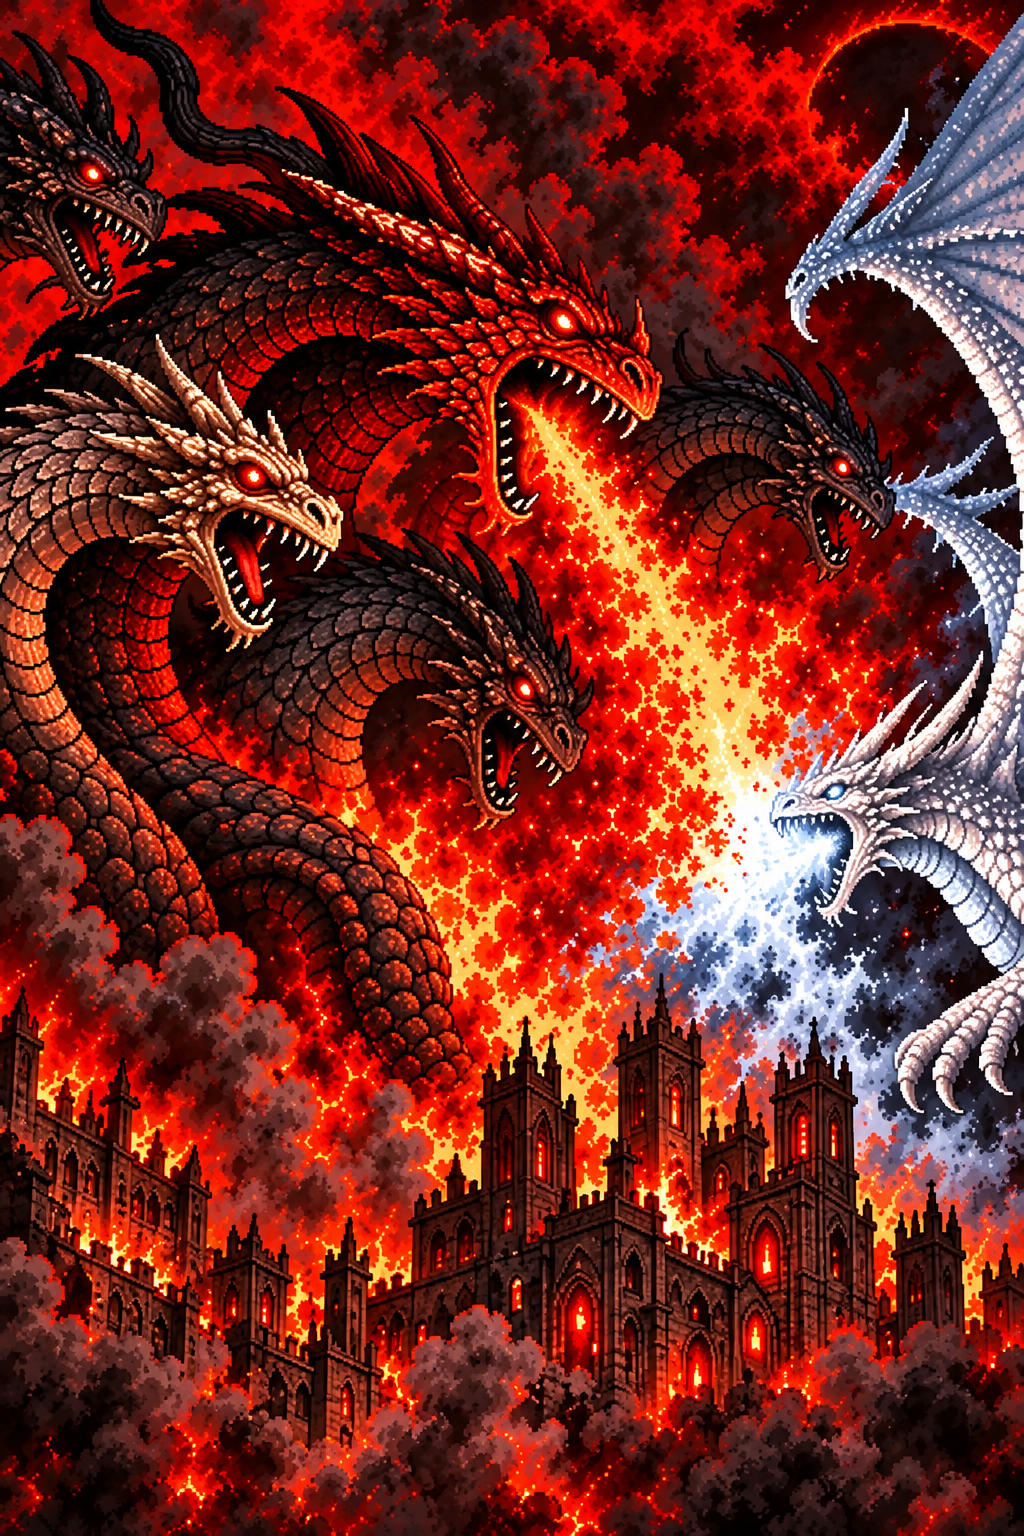
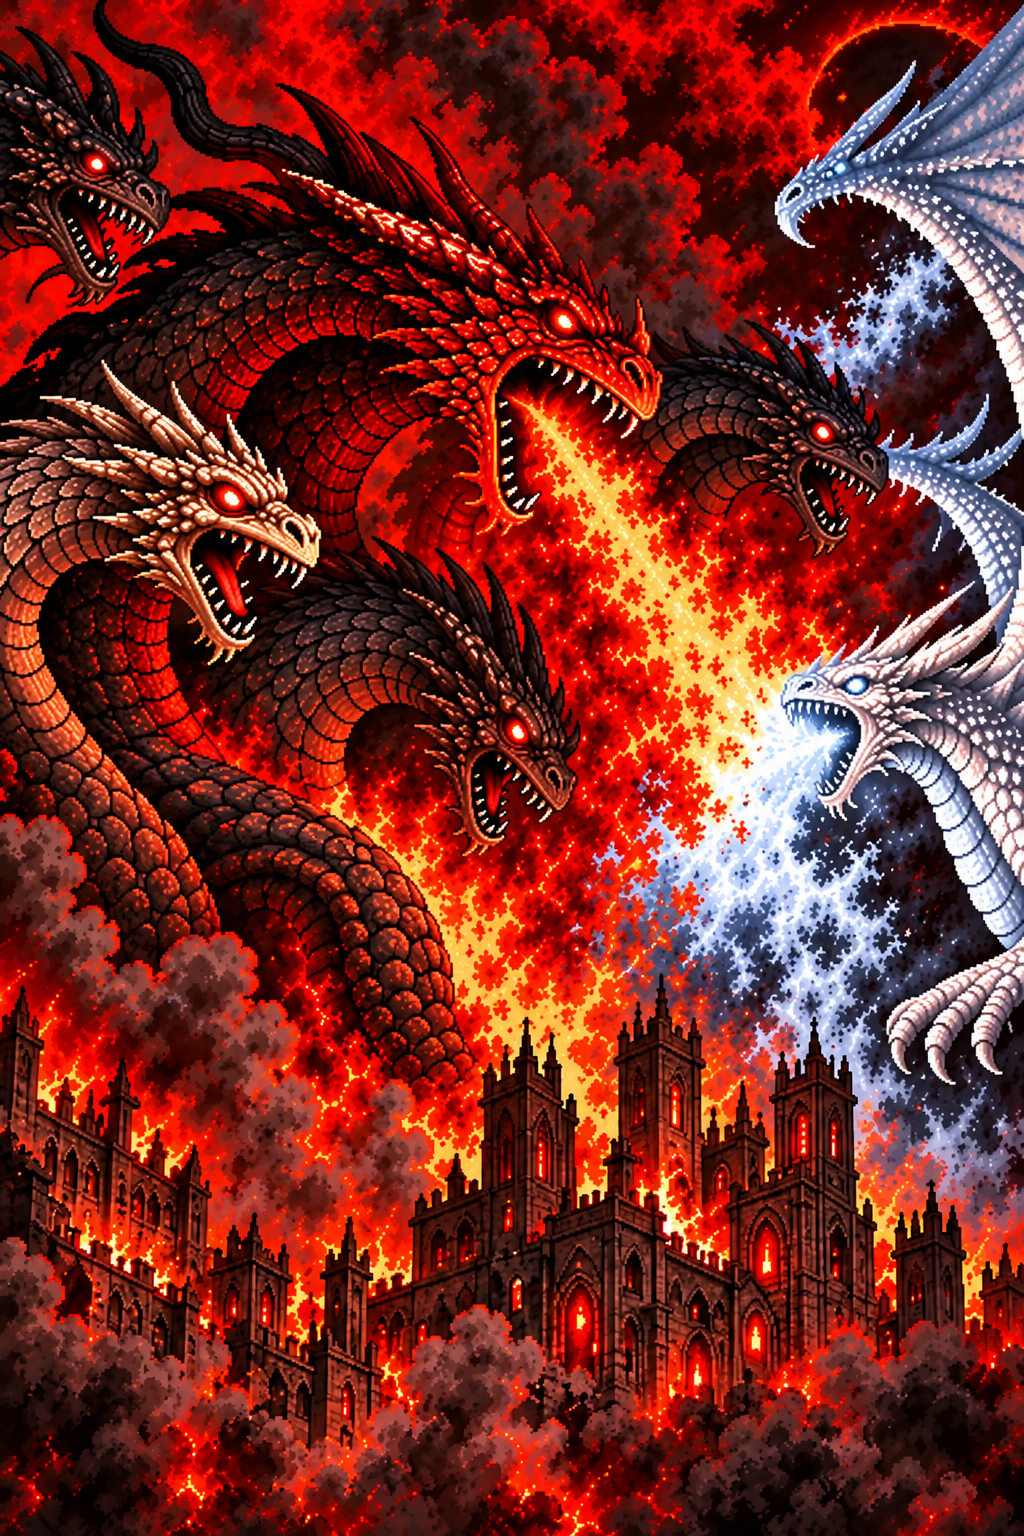
Animate dragon poses and change the opening fire-breathing head

diff --git a/sw.js b/sw.js
@@ -1,7 +1,7 @@
 // Content-addressed resources survive deployments. HTML stays network-first;
 // tiles retain their independent offline cache. Keep two shell generations so
 // old tabs can still request their exact script URLs after a worker update.
-const SHELL_VERSION = 'shell-cb2d2e03';
+const SHELL_VERSION = 'shell-8aa55ad5';
 
 const RESOURCE_CACHE = 'terracart-resources-v1';
 const RESOURCE_MANIFEST = './__terracart_resource_manifest__';
@@ -1152,12 +1152,12 @@ const ASSET_HASHES = {
   "assets/art/story_compass.webp": "14eb2290",
   "assets/art/story_compass_frame2.webp": "4c9e1536",
   "assets/art/story_dragon_hunters_arrive.webp": "06db0f57",
-  "assets/art/story_nightmare.webp": "3cd2f354",
+  "assets/art/story_nightmare.webp": "18322b9d",
   "assets/art/story_nightmare_city_mask.svg": "d2e7c53e",
   "assets/art/story_nightmare_close.webp": "6d71eeda",
   "assets/art/story_nightmare_close_frame2.webp": "033cafdd",
-  "assets/art/story_nightmare_frame2.webp": "9af40dee",
-  "assets/art/story_nightmare_frame3.webp": "ae9a912c",
+  "assets/art/story_nightmare_frame2.webp": "abc8790f",
+  "assets/art/story_nightmare_frame3.webp": "d930451a",
   "assets/art/story_nightmare_frame4.webp": "bb10c103",
   "assets/art/story_wake.webp": "9d01bdd0",
   "assets/art/story_wake_frame2.webp": "b55f492f",

diff --git a/docs/design/presentation.md b/docs/design/presentation.md
@@ -466,11 +466,15 @@ pixels and decorative details do not define additional tap cells.
   Every outgoing and incoming image shares the same camera, preserving those
   scale offsets throughout each fade. Painted head motion and perspective
   still vary locally; the offsets match overall head scale, not every contour.
+  The lower dark head breathes fire in the first painting; the main red head
+  takes over in the second while the white dragon lifts its head.
   Tiamat stops breathing fire with her mouth half closed, retaining the
   second painting’s head position and side-facing pose in the third painting,
   then turns toward the viewer for her closed-mouth stare in the fourth;
   her head turns in place rather than growing independently. Peripheral
-  dragons keep shifting as flames flicker and smoke curls.
+  dragons change their relative head heights and neck angles in every painting,
+  with a distinct recoil and lean in the third. Flame and ice plumes reshape
+  with those poses while smoke curls drift only slightly.
   One continuous camera zoom runs from 1.5× to 4.2× over 13.33 seconds,
   starting slowly, pushing in through the middle, then slowing throughout
   the final quarter (3.33 seconds) to settle on the final frame.
